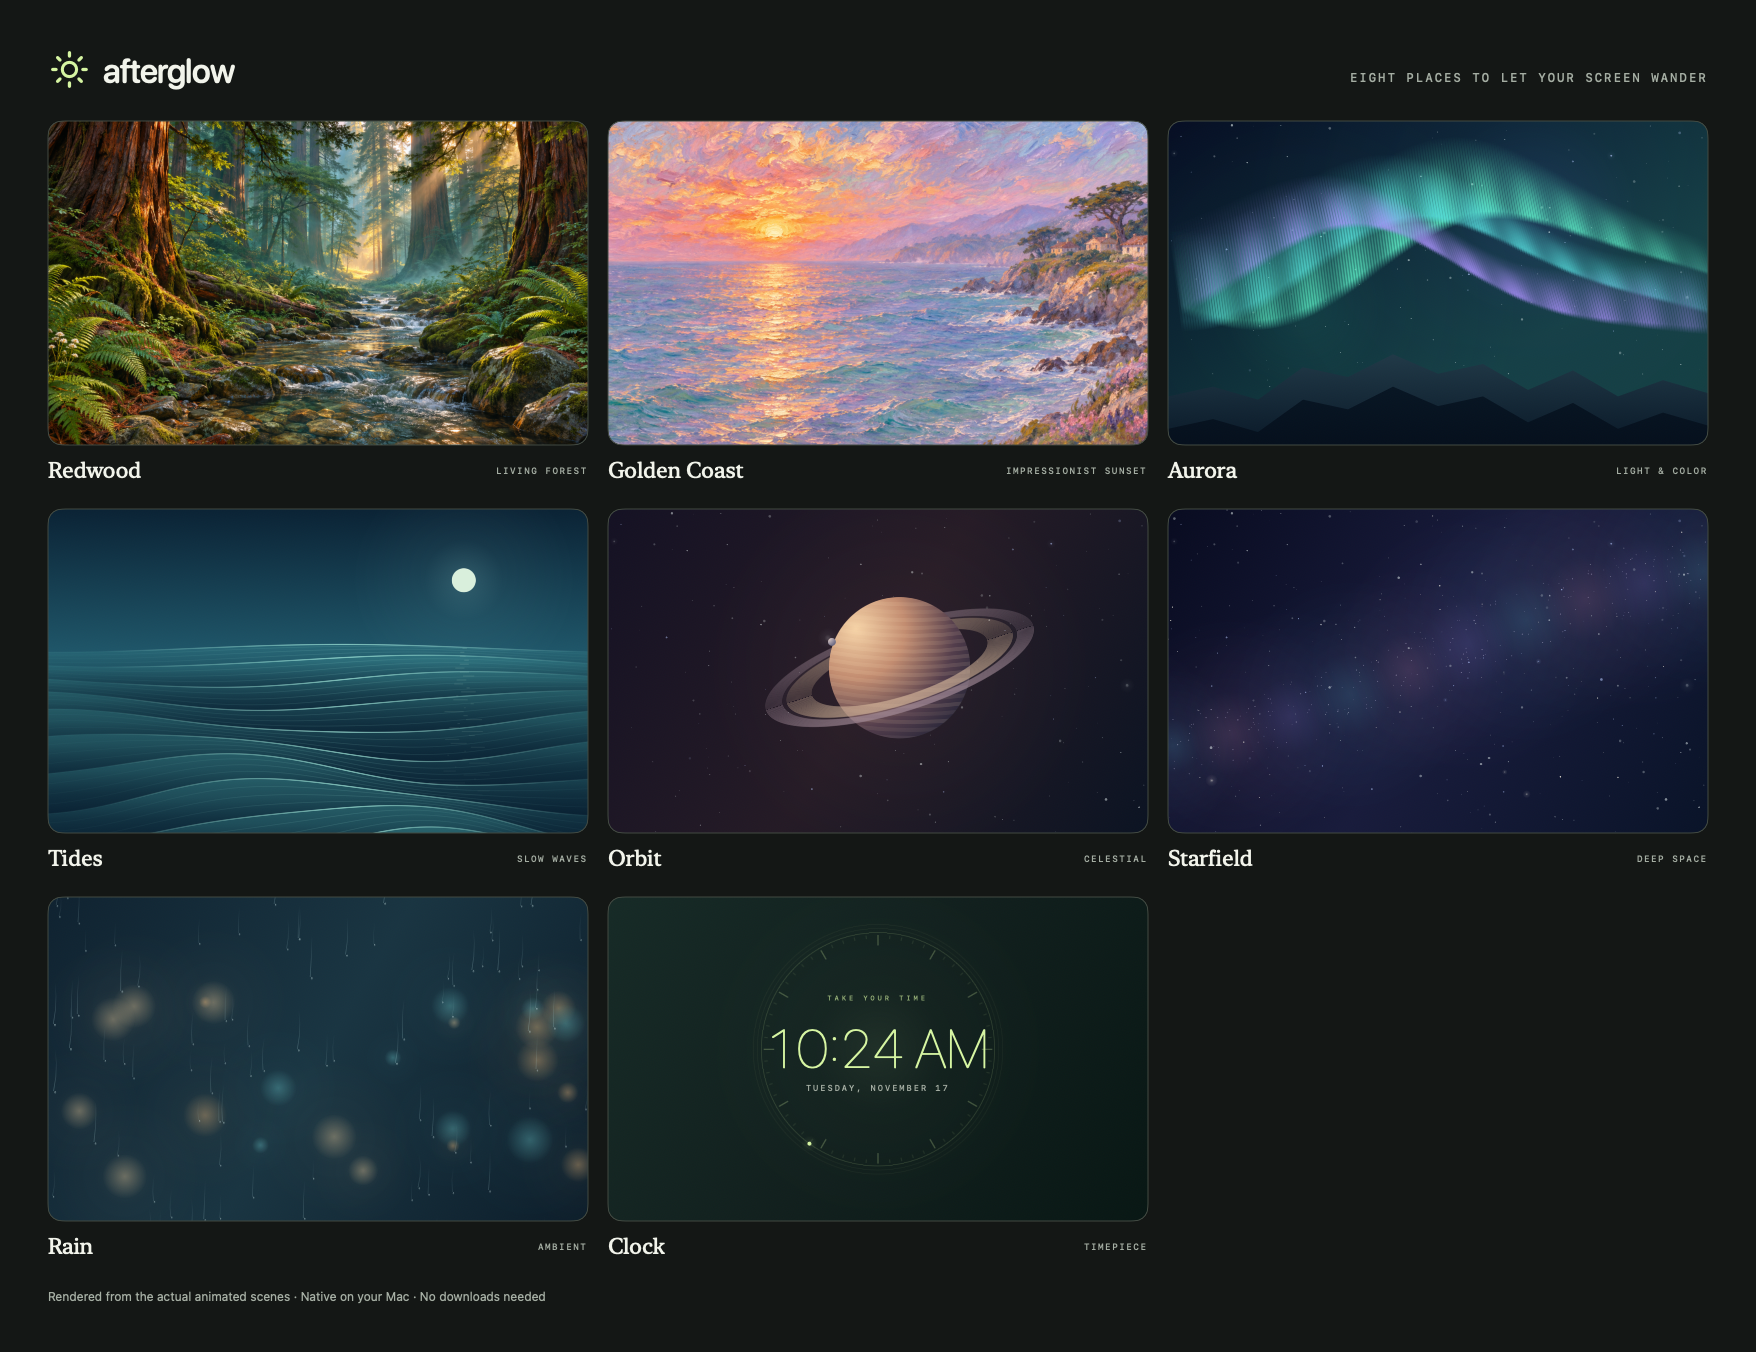
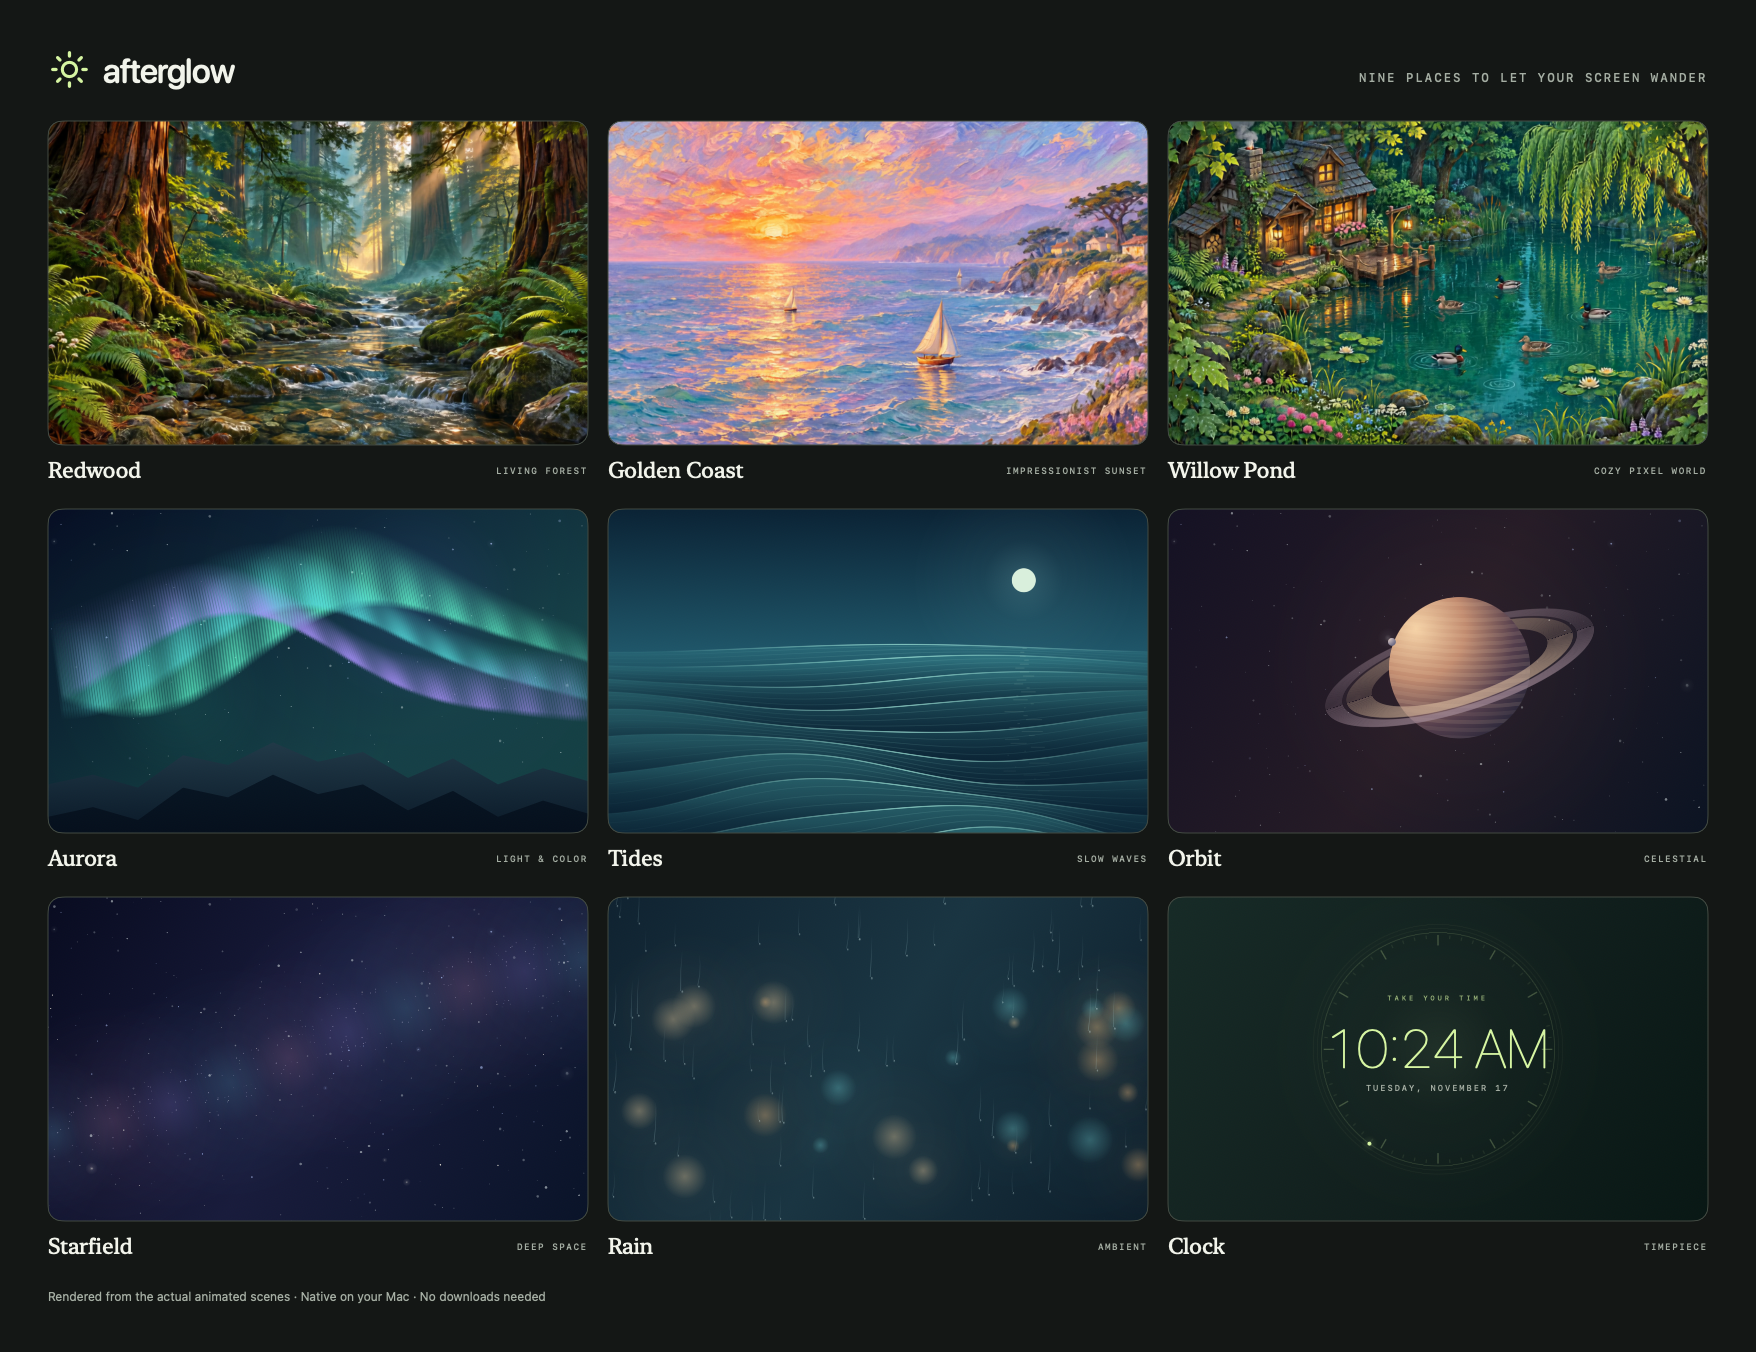
Preview three included video wallpapers in Afterglow 1.3

diff --git a/README.md b/README.md
@@ -16,11 +16,20 @@ on first launch. See the installation instructions below before downloading.
 
 ## Animated scenes and video wallpapers
 
-- **Six built-in scenes:** Aurora, Tides, Orbit, Starfield, Rain, and Clock.
-- **Native video wallpapers:** add your own local MP4, MOV, or M4V to the Redwood
-  or Golden Coast slot. Afterglow loops the full video on every display, with no
-  photo-animation filter or particle overlay. Each slot has a poster preview;
-  cinematic forest and Monet-style coastal video clips are not included yet.
+- **Three full-motion video wallpapers, included:** Redwood, a forest creek;
+  Golden Coast, an animated impressionist California sunset with sailboats;
+  and Willow Pond, a cozy woodland cottage with ducks, rain, and rippling water.
+- **Six procedural scenes:** Aurora, Tides, Orbit, Starfield, Rain, and Clock.
+- **Your own videos:** optionally replace a video scene with a local MP4, MOV,
+  or M4V. All built-in wallpapers work immediately and offline.
+
+The three video scenes use AI-generated artwork and video. Each monitor plays
+its own full-frame movie loop through the native macOS video player. Artwork was
+created with OpenAI image generation; videos were generated locally with
+[Lightricks LTX-Video](https://huggingface.co/Lightricks/LTX-Video). Willow Pond's
+woodland-water direction was inspired by [Daniil Ch.'s Quack demo](https://x.com/daniildesigns/status/2122798311279108476).
+
+![Willow Pond video preview](images/willow-pond.gif)
 
 Click **Start screensaver** to cover every connected display and prevent idle
 sleep. Move the mouse or press a key to return to your desktop; the awake session
